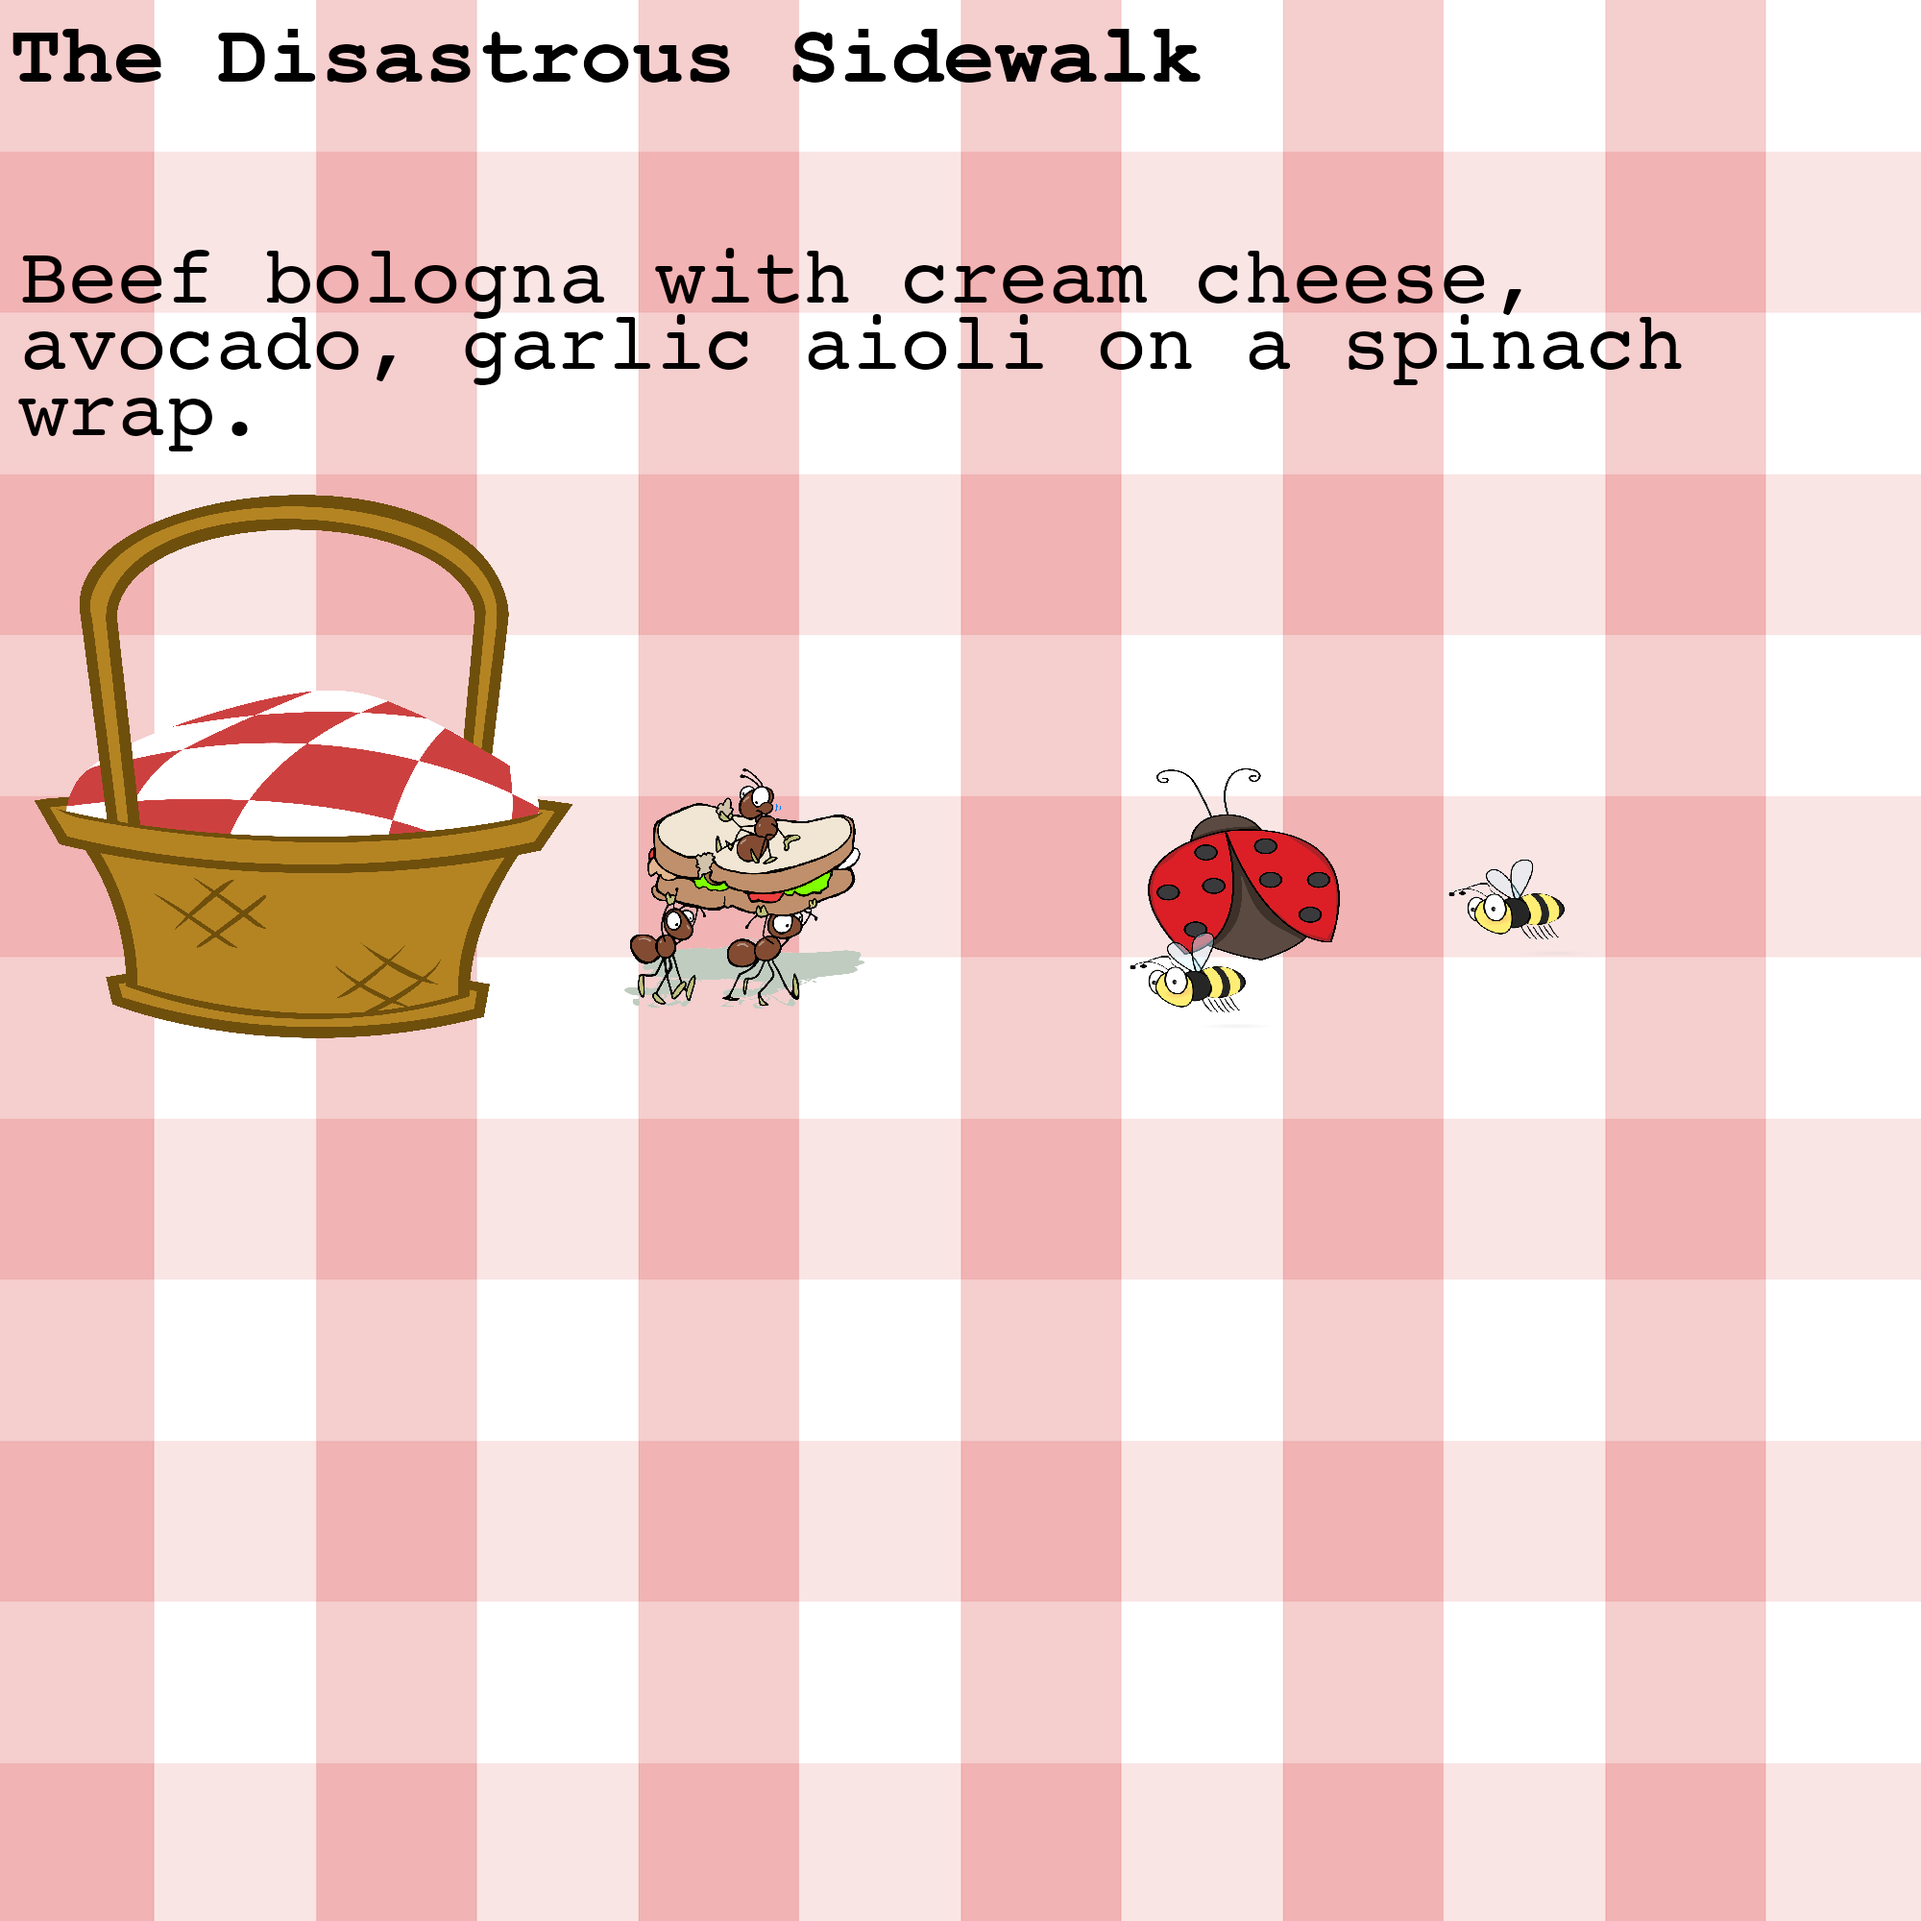
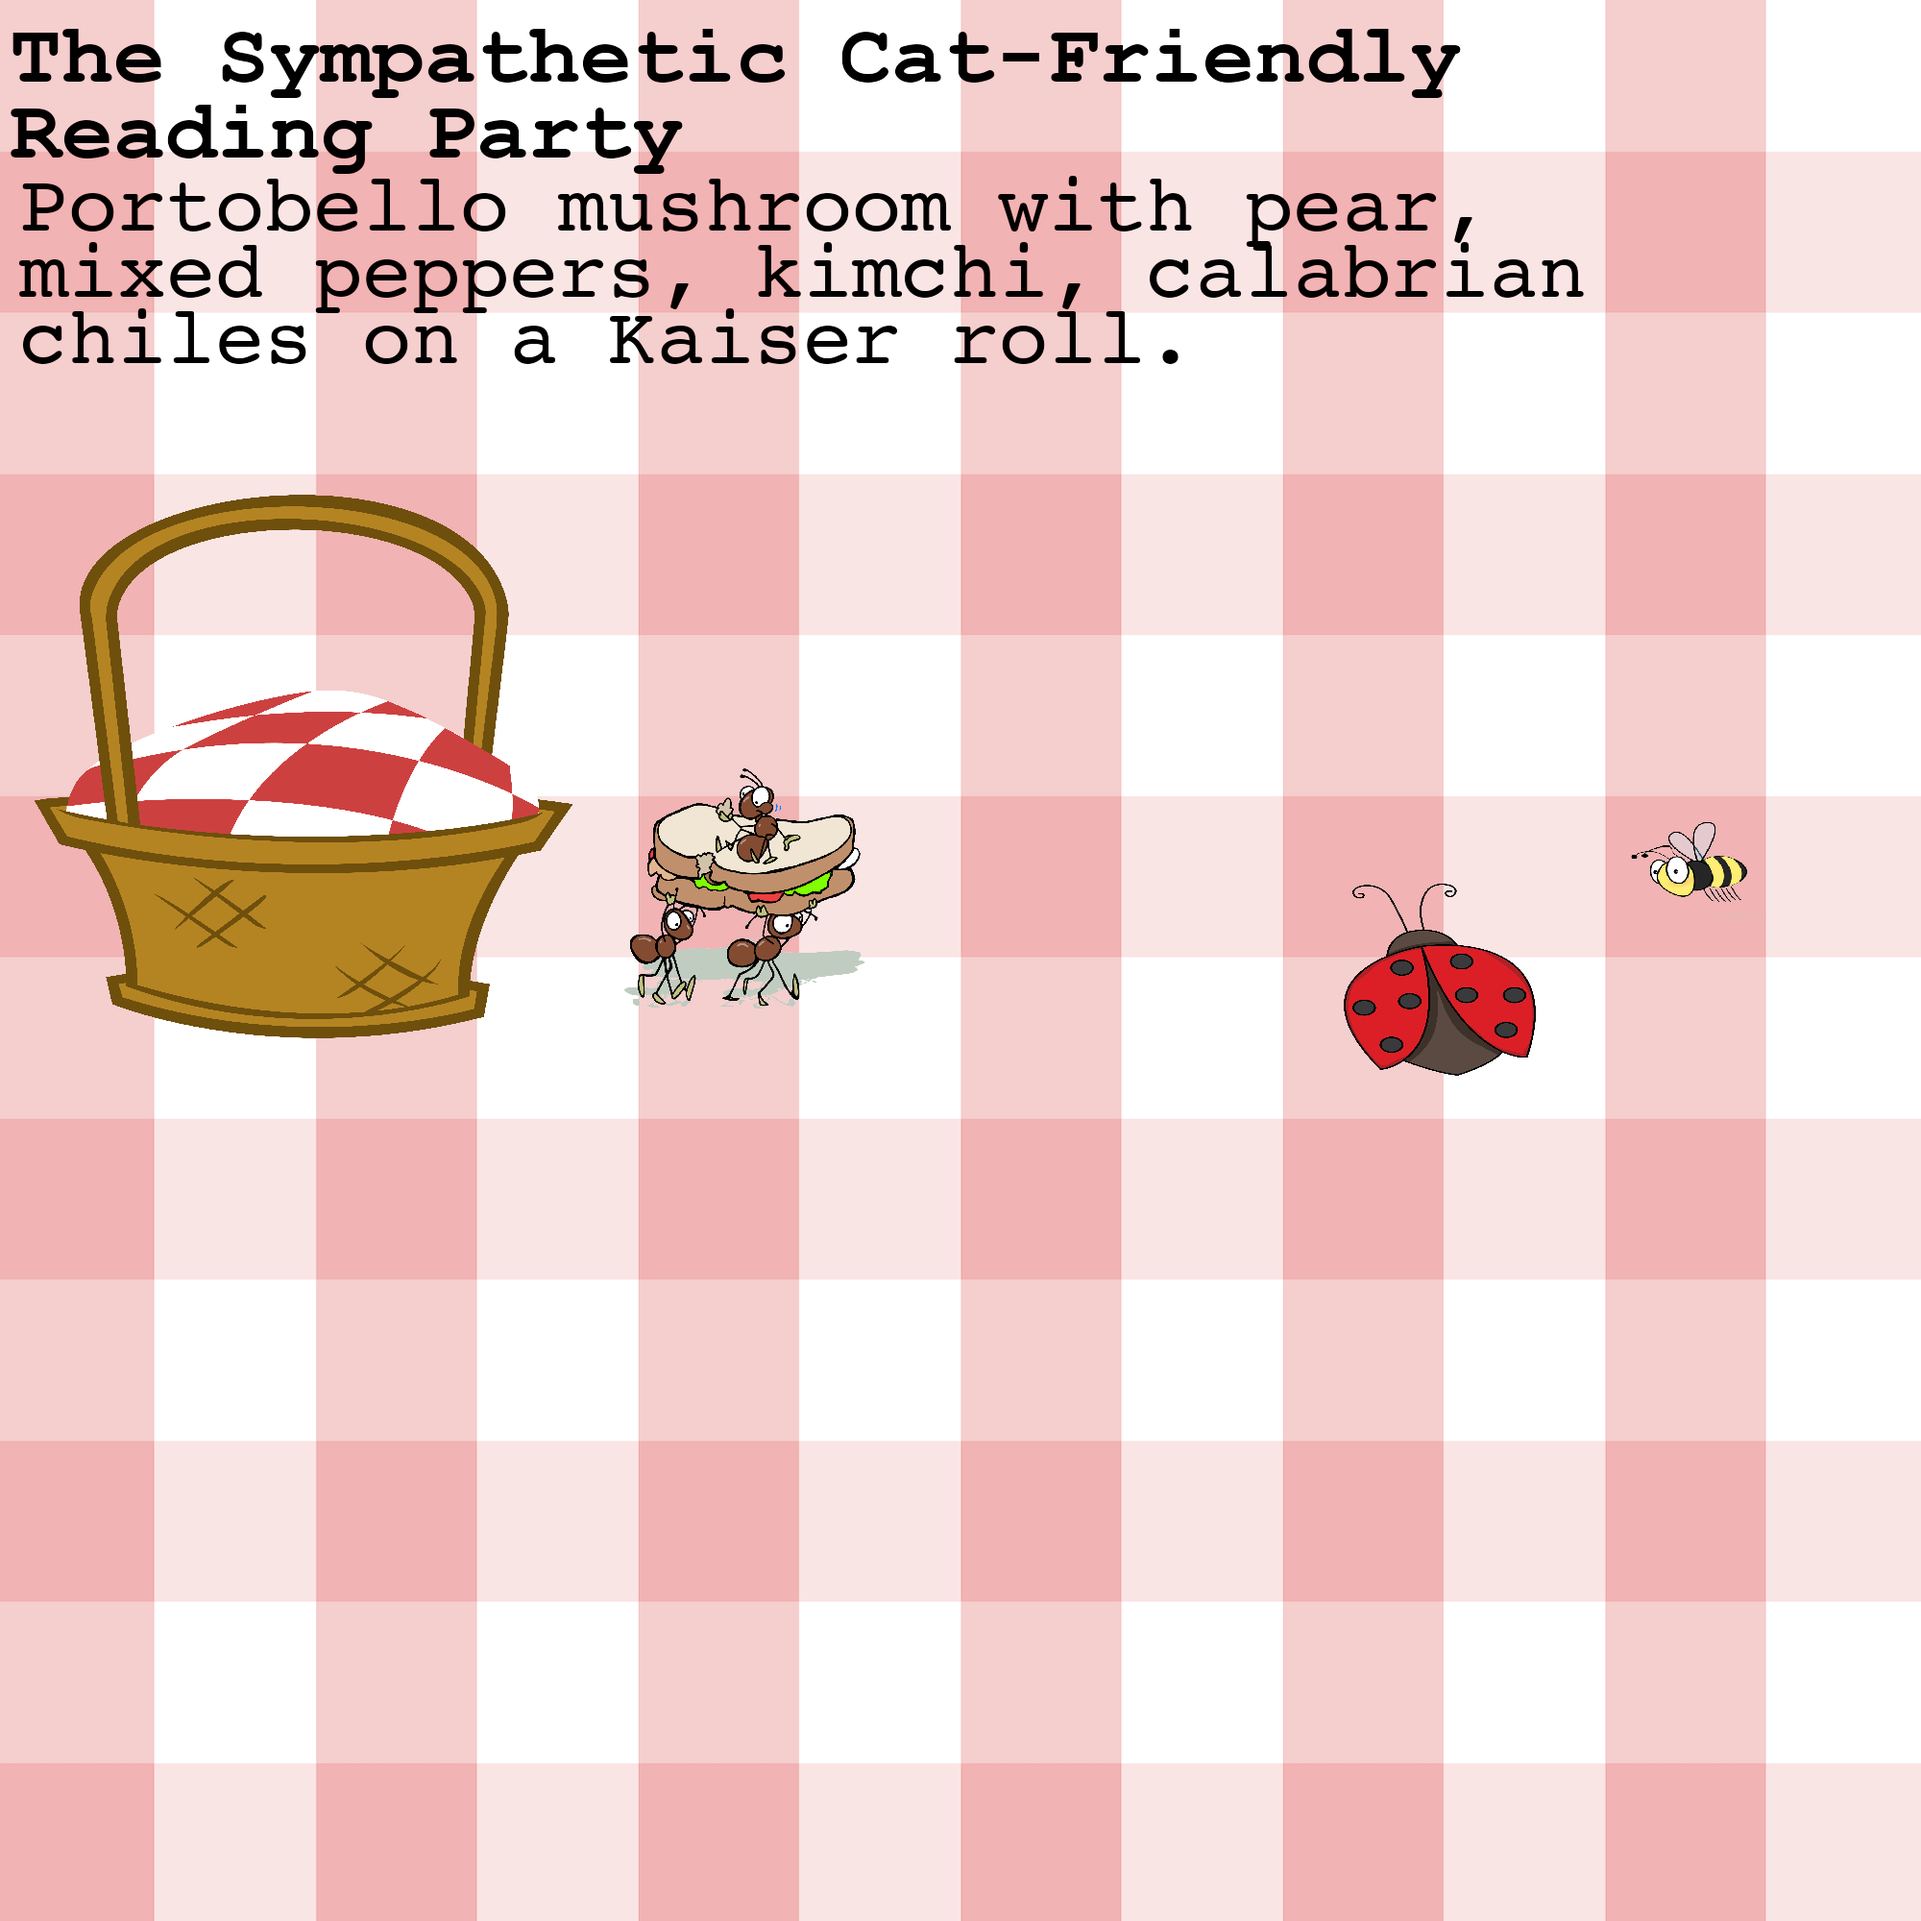
Final version

Changed region(s): [[0.0, 0.0, 0.868, 0.248], [0.589, 0.403, 0.837, 0.558], [0.837, 0.434, 0.93, 0.465]]

diff --git a/TwitterBot.py b/TwitterBot.py
@@ -14,7 +14,9 @@ from random import seed
 from random import randint
 
 
-
+"""
+This class handles the TwitterAPI and authenticates the twitter account.
+"""
 class TwitterAPI():
     def __init__(self):
             
@@ -26,15 +28,14 @@ class TwitterAPI():
         auth.set_access_token(access_token, access_token_secret)
         self.api = tweepy.API(auth)
         ####self.follow()
-        ####self.retweet()
+        self.retweet()
         
-    #def tweet(self, tweet):
-        #api = tweepy.API(self._authorization)
-        
+    # This method follows back any new followers   
     def follow(self):
         for follower in tweepy.Cursor(self.api.followers).items():    
             follower.follow() 
     
+    # This method retweets 2 tweets that contain the word "sandwich"
     def retweet(self):
         search = "sandwich"
         numberOfTweets = 2
@@ -49,8 +50,12 @@ class TwitterAPI():
 
             except StopIteration:        
                 break   
-    
+"""
+This function handles the Twitter Bot.
+"""   
 class Bot:
+    # This method initializes the twitter API, as well as the thread that runs the bot. It reads
+    # the .txt files and sorts items into arrays. It also creates an array of hashtags.
     def __init__(self, twitter_api, tweets_per_hour = 60):
         
         self.twitter_api = twitter_api
@@ -106,22 +111,24 @@ class Bot:
                 
         self.sleep_timer = int(60*60/tweets_per_hour)
         
+     # This method generates the recipe string by choosing a random number of each item, and then randomly
+     # selecting items from each array.   
     def get_tweet(self):
         tweet = ''
-        seed()
-        meatInt=randint(0,len(self.meat_array)-1)
-        cheeseInt = randint(0,len(self.cheese_array)-1)
-        vegInt = randint(0,len(self.vegetable_array)-1)
-        toppingInt = randint(0,len(self.topping_array)-1)
-        breadInt = randint(0,len(self.bread_array)-1)
         
+        # Randomly select number of each item for recipe
+        seed()
         meatNum = randint(0,2)
         cheeseNum = randint(0,1)
+        # If there is no meat, load up on vegetables.
         if meatNum == 0:
             vegNum = randint(1,3)
         else:
             vegNum = randint(1,2)
         toppingNum = randint(1,2)
+        
+        # Start forming the recipe string.
+        # Meat
         if meatNum!=0:
             tweet = self.meat_array[randint(0,len(self.meat_array)-1)].capitalize()
         
@@ -129,42 +136,62 @@ class Bot:
                 tweet += ", " + self.meat_array[randint(0,len(self.meat_array)-1)]
         
             tweet += " with "
-            
+        
+        # Cheese
         if cheeseNum!=0:
             tweet += self.cheese_array[randint(0,len(self.cheese_array)-1)] + " cheese, "
-            
+        
+        # Vegetables    
         tweet += self.vegetable_array[randint(0,len(self.vegetable_array)-1)]
         for i in range(vegNum -1):
             tweet += ", " + self.vegetable_array[randint(0,len(self.vegetable_array)-1)]
         tweet += ", "
-    
+        
+        # Toppings
         tweet += self.topping_array[randint(0,len(self.topping_array)-1)]
         for i in range(toppingNum -1):
             tweet += ", " + self.topping_array[randint(0,len(self.topping_array)-1)]
         
+        # Bread
+        tweet += " on " + self.bread_array[randint(0,len(self.bread_array)-1)] + "."
         
-        tweet += " on " + self.bread_array[breadInt] + "."
-       
+        # Wrap text so that it fits into the recipe card.
         wrapper = textwrap.TextWrapper(width=35) 
         string = wrapper.fill(text=tweet) 
+        
         return string 
     
+    # This method generates a name for each sandwich.
     def get_name(self):
         name = ''
+        
+        # Select a random adjective and noun.
         seed()
         name = "The " + self.adjective_array[randint(0,len(self.adjective_array)-1)].title()  + " " + self.noun_array[randint(0,len(self.noun_array)-1)].title()
+        
+        # Wrap text so that it fits into the recipe card.
         wrapper = textwrap.TextWrapper(width=35) 
         string = wrapper.fill(text=name) 
-        return string
         
+        return string
+    
+    # This method generates the hashtags.    
     def get_hashtags(self):
         hashtags = ''
+        
+        # Select a random number of hashtags.
         seed()
         hashtagNum = randint(2,4)
+        
+        # Create a string of hashtags.
         for i in range(hashtagNum):
             hashtags += self.hashtag_array[randint(0,len(self.hashtag_array)-1)] + " "
+            
         return hashtags
     
+    # This method is the thread that runs the bot. It will call the get_name, get_tweet, and get_hashtags
+    # functions, as well as the get_image_tweet function. This method will also cause the bot to sleep for 
+    # 60 seconds.
     def run(self):
         
         while True:
@@ -174,38 +201,41 @@ class Bot:
             hashtags = self.get_hashtags()
             self.get_image_tweet(tweet,name,hashtags)
             print("sleeping")
-            time.sleep(self.sleep_timer) #Every 10 minutes
+            time.sleep(self.sleep_timer) #Every 1 minute
         
-        
+    # This method creates the recipe image and posts it to Twitter.    
     def get_image_tweet(self,tweet,name,hashtags):
         
+        # Create a root path for the bug images.
         root_image_path = "/Users/Camille/Documents/COEN296B/FinalProject/BugImages/"
         images_files = os.listdir(root_image_path)
         if '.DS_Store' in images_files:
             images_files.remove('.DS_Store')  
         
-        """
-        image = Image.open(root_image_path + single_image)
-        """
-        image = Image.open("/Users/Camille/Documents/COEN296B/FinalProject/Images/sandwich12.png")
+        # Open the background image and make more transparent.
+        image = Image.open("/Users/Camille/Documents/COEN296B/FinalProject/Images/blanket.png")
         image = image.copy()
         image.putalpha(90)
         draw = ImageDraw.Draw(image)
-         
-        picnicBugs = Image.open("/Users/Camille/Documents/COEN296B/FinalProject/picnic.png")
+        
+        # Open the picnic basket image and transpose onto the background image. 
+        picnicBasket = Image.open("/Users/Camille/Documents/COEN296B/FinalProject/picnic.png")
         newsize = (600,600)
-        picnicBugs = picnicBugs.resize(newsize)
-        image.paste(picnicBugs, (20,500), picnicBugs)
+        picnicBasket = picnicBasket.resize(newsize)
+        image.paste(picnicBasket, (20,500), picnicBasket)
         draw = ImageDraw.Draw(image)
         
+        # Open the ants image and transpose onto the background image.
         ants = Image.open("/Users/Camille/Documents/COEN296B/FinalProject/antSandwich.png")
         newsize = (250,250)
         ants = ants.resize(newsize)
         image.paste(ants, (650,800), ants)
         draw = ImageDraw.Draw(image)
         
+        # Select a random value of bugs.
         randnum=randint(2,3)
         
+        # Select random bugs and transpose onto the background image in random locations.
         for i in range(randnum):
             randXloc=randint(900,1800)
             randYloc=randint(800,950)
@@ -215,17 +245,25 @@ class Bot:
             littleBug=littleBug.resize(newsize)
             image.paste(littleBug, (randXloc, randYloc), littleBug)
             draw = ImageDraw.Draw(image)
-        
+            
+        # Select a font for the name.
         font = ImageFont.truetype("/Library/Fonts/Courier New Bold.ttf", 90)
-        # draw the image
-        
+    
+        # Draw the name onto the recipe card.
         draw.text((10,10), name, (0,0,0), font=font)
         draw = ImageDraw.Draw(image)
         
+        # Select a font for the recipe.
         font = ImageFont.truetype("/System/Library/Fonts/Courier.dfont", 85)
-        draw.text((20,250), tweet, (0,0,0), font=font)
+        
+        # Draw the recipe onto the recipe card.
+        draw.text((20,175), tweet, (0,0,0), font=font)
         draw = ImageDraw.Draw(image)
+        
+        # Save new image.
         image.save('transparentCopy.png')
+        
+        # Post image to Twitter.
         status = self.twitter_api.api.update_with_media("transparentCopy.png",hashtags)
         
         
